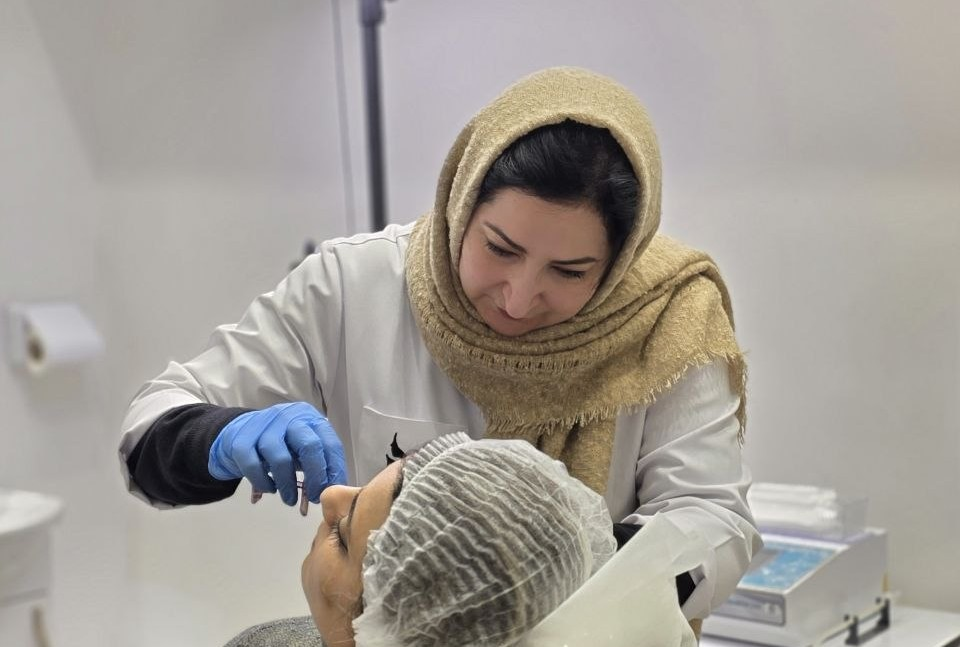
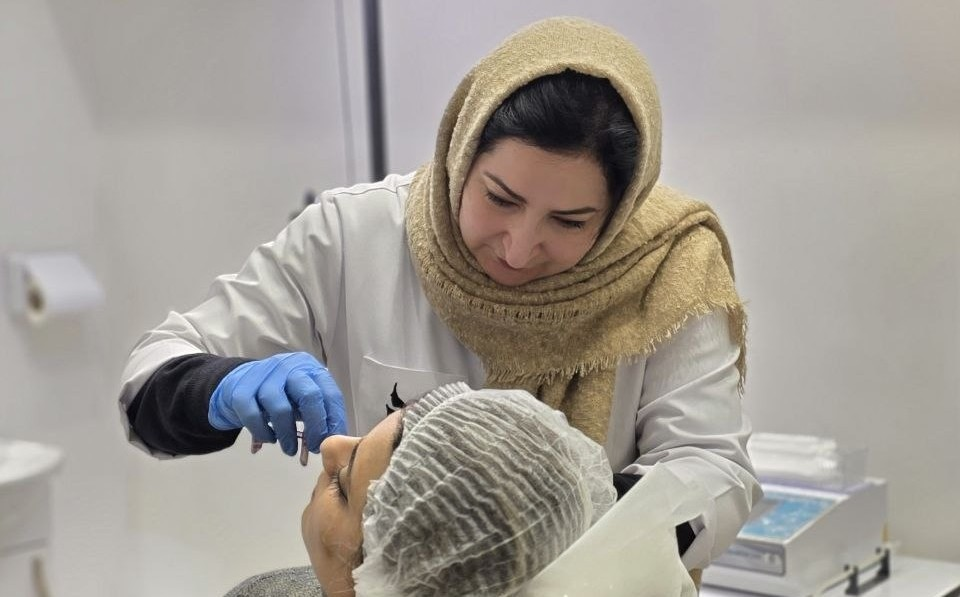
fix all

diff --git a/index.html b/index.html
@@ -1,6 +1,6 @@
 <!doctype html>
 <!-- <html lang="en"> -->
-    <html lang="fa" dir="rtl">
+    <html lang="fa">
 
     <head>
         <meta charset="utf-8">
@@ -37,8 +37,9 @@
             <nav class="navbar navbar-expand-lg bg-light fixed-top shadow-lg">
                 <div class="container">
                     <a class="navbar-brand mx-auto d-lg-none" href="index.html">
-                        Dr. arbabian
-                        <strong class="d-block">Health Specialist</strong>
+                        دکتر خاطره اربابیان
+                        <strong class="d-block">پزشک زیبایی</strong>
+
                     </a>
 
                     <button class="navbar-toggler" type="button" data-bs-toggle="collapse" data-bs-target="#navbarNav" aria-controls="navbarNav" aria-expanded="false" aria-label="Toggle navigation">
@@ -104,21 +105,20 @@
 
                             <div class="heroText d-flex flex-column justify-content-center">
 
-                                <h1 class="mt-auto mb-2">
+                                <h2 class="mt-auto mb-2">
                                     طبیعی
                                     <div class="animated-info">
-                                        <span class="animated-item">زیبا شوید</span>
-                                        <span class="animated-item">زندگی کنید</span>
+                                        <span class="animated-item">باشید.</span>
+                                        <span class="animated-item">زیبا شوید.</span>
+                                        <span class="animated-item">زندگی کنید.</span>
                                     </div>
-                                </h1>
+                                </h2>
 
                                 <p class="mb-4">
 <strong>دکتر خاطره اربابیان</strong><br>
 شماره نظام پزشکی: ۷۸۴۲۱<br>
 آدرس مطب: اصفهان، خیابان بزرگمهر، اول هشتبهشت غربی، ساختمان سروش، طبقه دوم، واحد ۱۵<br>
-نوبتدهی: ۰۹۰۱۶۸۷۶۰۰۶<br>
-ساعات پاسخگویی: ۶ تا ۱۰ شب (صرفاً پیامک یا واتساپ)<br>
-تلفن مطب: ۰۳۱۳۲۶۴۵۹۲۳
+ساعات پاسخگویی تلفن نوبت دهی: ۶ تا ۱۰ شب (صرفاً پیامک یا واتساپ)<br>
 </p>
 
 
@@ -129,7 +129,7 @@
                                     <p class="contact-phone mb-0"><i class="bi-phone"></i>۰۳۱۳۲۶۴۵۹۲۳</p>
                                 </div>
                                 <div class="heroLinks d-flex flex-wrap align-items-center">
-                                    <a class="custom-link me-4" href="#about" data-hover="تماس گرفتن">شماره تلفن نوبت دهی</a>
+                                    <a class="custom-link me-4" href="#about" data-hover="واتساپ/پیامک">شماره تلفن نوبت دهی</a>
 
                                     <p class="contact-phone mb-0"><i class="bi-phone"></i>۰۹۰۱۶۸۷۶۰۰۶</p>
                                 </div>
@@ -144,17 +144,36 @@
                 <div class="container">
                     <div class="row">
 
-                        <div class="col-lg-6 col-md-6 col-12">
-                            <h2 class="mb-lg-3 mb-3">Hi, I'm Dr.khatereh arbabian</h2>
+                                <!-- <div class="col-lg-6 col-md-6 col-12"> -->
+                                <div class="col-lg-6 col-md-6 col-12 about-text">
+                    <div class="mobile-lines"></div>
 
-                            <p>Integer posuere erat a ante venenatis dapibus posuere velit aliquet. Maecenas faucibus mollis interdum. Donec ullamcorper nulla non metus auctor fringilla.</p>
+                                <h5 class="mb-lg-1 mb-3">
+                                    من دکتر خاطره اربابیان، پزشک زیبایی، پوست و مو هستم
+                                </h5>
+                                
 
-                            <p>YInteger posuere erat a ante venenatis dapibus posuere velit aliquet. Maecenas faucibus mollis interdum.  <a rel="nofollow" href="http://www.naemazam.com" target="_blank">contact</a> me</p>
-                        </div>
+                                <h5 class="mb-lg-1 mb-3" style="color: var(--primary-color);">
+
+                                    رویکرد من بر پایهی حفظ زیبایی طبیعی و پرهیز از مداخلات اغراقآمیز و بی دلیل است
+                                </h5>
+                                <br>
+                                <br>
+                                <p>
+                                    خدمات زیبایی ای که در این مجموعه ارائه میشوند:
+                                </p>
+                                <h5>
+                                 تزریق ژل ،بوتاکس ،فیلر ،مزوژل ،فیلر بادی،تزریق چربی،نخ ،ساکشن غبغب و...
+                                </h5>
+                                <p>
+                                    در این مجموعه، خدمات زیبایی با تمرکز بر تناسب چهره، سلامت پوست و نتایج طبیعی ارائه میشود و حجمدهیهای غیرضروری و غیرطبیعی انجام نمیدهم..
+                                </p>
+                                </div>
+
 
                         <div class="col-lg-4 col-md-5 col-12 mx-auto">
                             <div class="featured-circle bg-white shadow-lg d-flex justify-content-center align-items-center">
-                                <p class="featured-text"><span class="featured-number">12</span> Years<br> of Experiences</p>
+                                <p class="featured-text"><span class="featured-number">20</span>سال<br>سابقه کار</p>
                             </div>
                         </div>
 

diff --git a/css/dp.css b/css/dp.css
@@ -19,7 +19,7 @@
   --h4-font-size:                 28px;
   --h5-font-size:                 24px;
   --h6-font-size:                 22px;
-  --p-font-size:                  18px;
+  --p-font-size:                  22px;
   --menu-font-size:               16px;
 
   --font-weight-light:            300;
@@ -30,8 +30,8 @@
 
 body {
 
-  direction: rtl;
-  text-align: right;
+  /* direction: rtl; */
+  /* text-align: right; */
   background: var(--white-color);
     font-family: var(--body-font-family);    
     position: relative;
@@ -62,36 +62,61 @@ h6 {
 
 h1,
 h2 {
+  
+  direction: rtl;
+  text-align: center;
   font-weight: var(--font-weight-bold);
 }
 
 h1 {
+  
+  direction: rtl;
+  text-align: center;
   font-size: var(--h1-font-size);
   line-height: normal;
 }
 
 h2 {
+  
+  direction: rtl;
+  text-align: right;
   font-size: var(--h2-font-size);
 }
 
 h3 {
+  
+  direction: rtl;
+  text-align: center;
   font-size: var(--h3-font-size);
 }
 
 h4 {
+  
+  direction: rtl;
+  text-align: center;
   font-size: var(--h4-font-size);
 }
 
 h5 {
+  
+  direction: rtl;
+  text-align: center;
   font-size: var(--h5-font-size);
 }
 
 h6 {
+  
+  direction: rtl;
+  text-align: center;
   font-size: var(--h6-font-size);
 }
 
 p {
-  color: var(--p-color);
+  
+  direction: rtl;
+  text-align: right;
+  color: #000;
+  /* color: var(--p-color); */
   font-size: var(--p-font-size);
   font-weight: var(--font-weight-light);
   letter-spacing: 0.5px;
@@ -261,6 +286,9 @@ strong {
 }
 
 .heroText {
+  
+  direction: rtl;
+  text-align: right;
   background: rgba(255, 255, 255, 0.15); /* شفاف */
   
   backdrop-filter: blur(22px) saturate(160%);
@@ -829,19 +857,22 @@ strong {
     padding-bottom: 10px;
   }
 
-  .hero .container {
-    height: inherit;
+ .hero .container {
+    height: auto;
+    overflow: visible;
   }
 
   .heroText {
-    position: relative;
-    bottom: 100px;
-    left: 0;
-    width: auto;
-    margin-bottom: -100px;
-    padding: 2rem;
-  }
+    position: static;      /* کلیدیترین خط */
+    width: 100%;
+    margin-top: 1rem;
 
+    border-radius: 0;
+    box-shadow: none;
+
+    backdrop-filter: blur(14px);
+    -webkit-backdrop-filter: blur(14px);
+  }
   .featured-circle {
     width: 320px;
     height: 320px;
@@ -852,10 +883,11 @@ strong {
   .heroText {
     padding: 1.5rem;
   }
+.animated-info {
+  min-width: 180px;
+  white-space: nowrap;
+}
 
-  .animated-info {
-    min-width: 125px;
-  }
 
   .featured-circle {
     margin-top: 20px;
@@ -919,3 +951,53 @@ strong {
     left: 42px;
   }
 }
+
+
+/* فقط مخصوص موبایل */
+@media (max-width: 768px) {
+
+  /* خطوط افقی بلند */
+  .mobile-lines {
+    margin: 12px 0 16px;
+  }
+
+  .mobile-lines::before,
+  .mobile-lines::after {
+    content: "";
+    display: block;
+    width: 80%;
+    height: 3px;
+    margin: 6px auto;
+    border-radius: 4px;
+  }
+
+  /* خط اول – آبی */
+  .mobile-lines::before {
+    background-color: #0d6efd;
+  }
+
+  /* خط دوم – مشکی */
+  .mobile-lines::after {
+    background-color: #111;
+  }
+
+  /* کم کردن فاصلهی کل بخش در موبایل */
+  #about {
+    padding-top: 3rem;
+    padding-bottom: 3rem;
+  }
+
+  .about-text h5,
+  .about-text p {
+    margin-bottom: 0.75rem;
+  }
+}
+
+/* دسکتاپ: خطوط کاملاً مخفی */
+@media (min-width: 769px) {
+  .mobile-lines {
+    display: none;
+  }
+}
+
+
